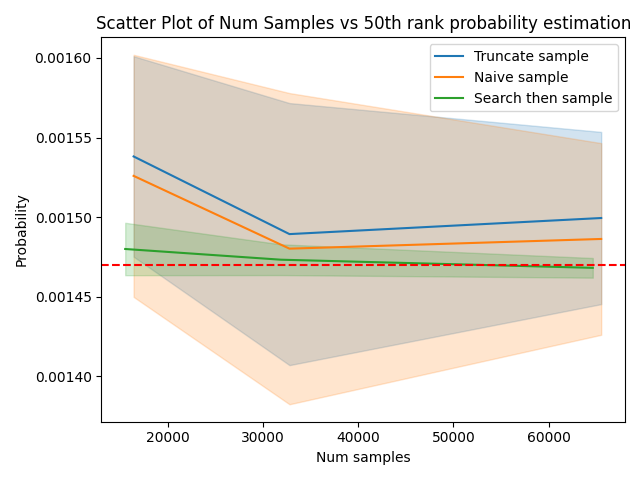
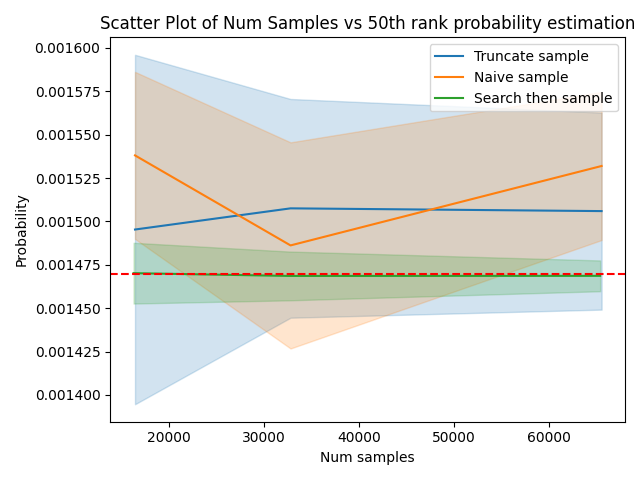
remove truncation sampler

diff --git a/logit-estimation/estimators.py b/logit-estimation/estimators.py
@@ -301,13 +301,17 @@ def diffsearch(sampler, prefix, topk, logit_bias, bias=-1000):
 def search_then_estimate(sampler, prefix, K, T, threshold):
     #idxs, estimated_logits, logit_bias, total_calls = search(sampler, prefix, 16, dict())
     #idxs, estimated_logits, logit_bias, total_calls = search(sampler, prefix, 64, dict())
-    idxs, estimated_logits, logit_bias, total_calls = search(sampler, prefix, 128, dict())
+    idxs, estimated_logits, logit_bias, total_calls = diffsearch(sampler, prefix, 128, dict())
 
     bias = -1000
     estimator = Estimator(sampler.vocab_size, threshold,
         estimated_logits=estimated_logits, idxs=idxs)
 
     remaining_calls = K*T - total_calls
+    sample_output = sampler.sample(prefix, remaining_calls, logit_bias)
+    estimator.add_sample(sample_output)
+    return estimator, K*T
+    """
     newT = remaining_calls // K
     #import pdb; pdb.set_trace()
     #newT = T
@@ -317,11 +321,14 @@ def search_then_estimate(sampler, prefix, K, T, threshold):
         if weight is None:
             break
         logit_bias = {word: bias for word in words}
+        logit_bias = dict()
+        weight = 0.
         sample_output = sampler.sample(prefix, K, logit_bias)
         allowed_words = [x for x in range(sampler.vocab_size) if x not in logit_bias]
         estimator.add_sample(sample_output, weight, allowed_words=allowed_words)
     #return estimator, K*T
     return estimator, total_calls + K * (t+1)
+    """
 
 
 
@@ -383,57 +390,56 @@ if __name__ == "__main__":
     for _ in range(10):
         for T in Ts:
             # test estimation
-            e1, c1 = estimate(sampler, prefix, K, T, tau)
+            #e1, c1 = estimate(sampler, prefix, K, T, tau)
             e2, c2 = naive_estimate(sampler, prefix, K*T)
             e3, c3 = search_then_estimate(sampler, prefix, K, T, tau)
-            mu1 = torch.tensor(np.exp(e1.mean()))
+            #mu1 = torch.tensor(np.exp(e1.mean()))
             mu2 = torch.tensor(np.exp(e2.mean()))
             mu3 = torch.tensor(np.exp(e3.mean()))
-            kl1 = kl_divergence(true_dist, Categorical(probs=mu1)).item()
+            #kl1 = kl_divergence(true_dist, Categorical(probs=mu1)).item()
             kl2 = kl_divergence(true_dist, Categorical(probs=mu2)).item()
             kl3 = kl_divergence(true_dist, Categorical(probs=mu3)).item()
-            rmse1 = (true_dist.probs - mu1).square().mean().sqrt().item()
+            #rmse1 = (true_dist.probs - mu1).square().mean().sqrt().item()
             rmse2 = (true_dist.probs - mu2).square().mean().sqrt().item()
             rmse3 = (true_dist.probs - mu3).square().mean().sqrt().item()
-            rrmse1 = ((true_dist.probs - mu1).abs() / true_dist.probs).mean().item()
+            #rrmse1 = ((true_dist.probs - mu1).abs() / true_dist.probs).mean().item()
             rrmse2 = ((true_dist.probs - mu2).abs() / true_dist.probs).mean().item()
             rrmse3 = ((true_dist.probs - mu3).abs() / true_dist.probs).mean().item()
 
-            method_list.append("Truncate sample")
+            #method_list.append("Truncate sample")
             method_list.append("Naive sample")
             method_list.append("Search then sample")
-            samples_list.append(c1)
+            #samples_list.append(c1)
             samples_list.append(c2)
             samples_list.append(c3)
-            kl_list.append(kl1)
+            #kl_list.append(kl1)
             kl_list.append(kl2)
             kl_list.append(kl3)
-            rmse_list.append(rmse1)
+            #rmse_list.append(rmse1)
             rmse_list.append(rmse2)
             rmse_list.append(rmse3)
-            rrmse_list.append(rrmse1)
+            #rrmse_list.append(rrmse1)
             rrmse_list.append(rrmse2)
             rrmse_list.append(rrmse3)
-            if kl1 < 0 or kl2 < 0 or kl3 < 0:
-                print(kl1, kl2, kl3)
-                #import pdb; pdb.set_trace()
+            #if kl1 < 0 or kl2 < 0 or kl3 < 0:
+            #    print(kl1, kl2, kl3)
 
-            max_prob_list.append(mu1.max().item())
+            #max_prob_list.append(mu1.max().item())
             max_prob_list.append(mu2.max().item())
             max_prob_list.append(mu3.max().item())
-            prob_25_list.append(mu1.topk(25).values[-1].item())
+            #prob_25_list.append(mu1.topk(25).values[-1].item())
             prob_25_list.append(mu2.topk(25).values[-1].item())
             prob_25_list.append(mu3.topk(25).values[-1].item())
-            prob_50_list.append(mu1.topk(50).values[-1].item())
+            #prob_50_list.append(mu1.topk(50).values[-1].item())
             prob_50_list.append(mu2.topk(50).values[-1].item())
             prob_50_list.append(mu3.topk(50).values[-1].item())
-            prob_100_list.append(mu1.topk(100).values[-1].item())
+            #prob_100_list.append(mu1.topk(100).values[-1].item())
             prob_100_list.append(mu2.topk(100).values[-1].item())
             prob_100_list.append(mu3.topk(100).values[-1].item())
-            prob_500_list.append(mu1.topk(500).values[-1].item())
+            #prob_500_list.append(mu1.topk(500).values[-1].item())
             prob_500_list.append(mu2.topk(500).values[-1].item())
             prob_500_list.append(mu3.topk(500).values[-1].item())
-            prob_1000_list.append(mu1.topk(1000).values[-1].item())
+            #prob_1000_list.append(mu1.topk(1000).values[-1].item())
             prob_1000_list.append(mu2.topk(1000).values[-1].item())
             prob_1000_list.append(mu3.topk(1000).values[-1].item())
 
